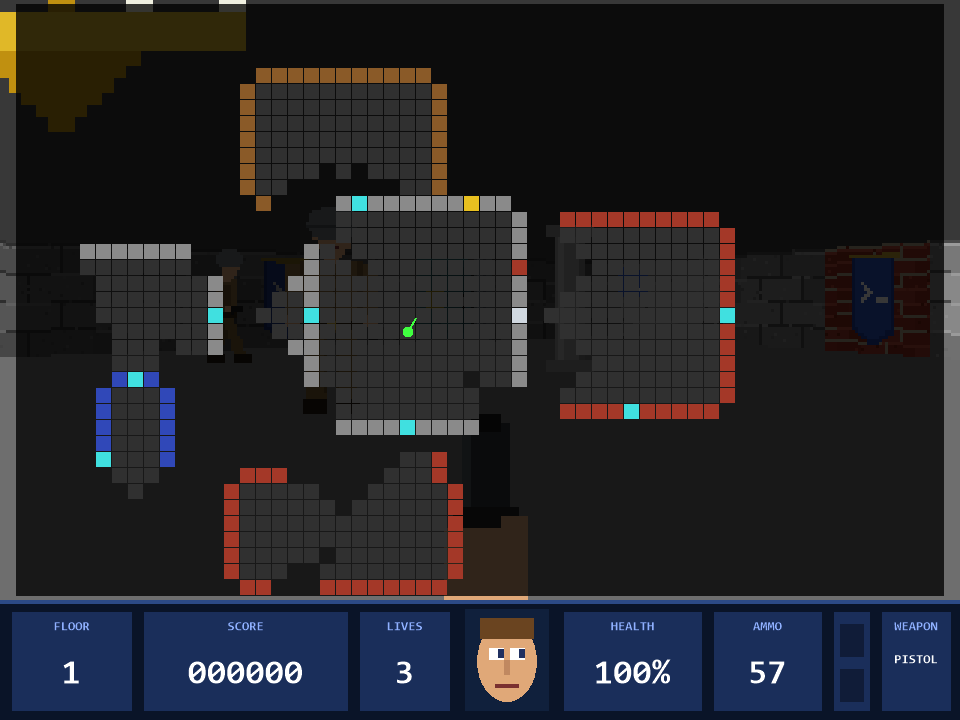
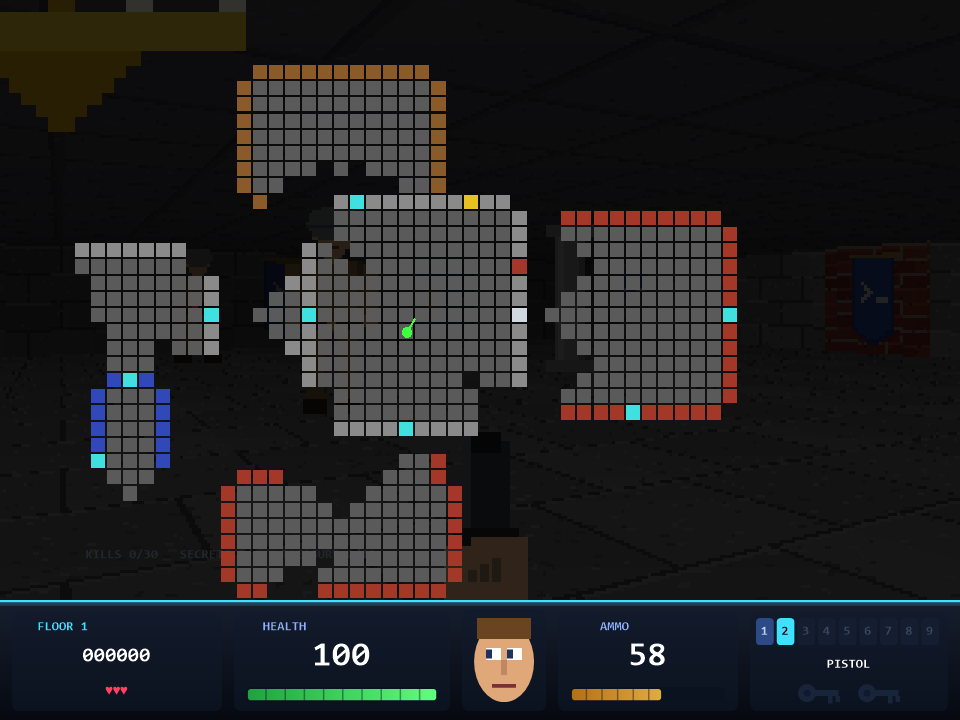
Update the README, screenshots and attract demo for the new features
Documents the new enemies, weapons, stealth, level machinery, network play,
saved games, demos, speedruns, music, game pad, editor and all map codes.
Adds a co-op screenshot; the war machine shot shows the beam again.

diff --git a/README.md b/README.md
@@ -1,8 +1,8 @@
 <h1 align="center">POLF 3D &nbsp;<code>&gt;_</code></h1>
 
 <p align="center"><b>A 90s-style ray casting shooter – written in PowerShell.</b><br>
-<i>Five floors, eight kinds of enemies, six weapons, procedurally generated graphics and sound –<br>
-and roughly 50 lines of C#.</i></p>
+<i>Five floors and a secret one, eleven kinds of enemies, nine weapons, co-op and duels over the network,<br>
+procedurally generated graphics, sound and music – and about 150 lines of C#.</i></p>
 
 <p align="center"><img src="media/warmachine.png" alt="Pipeline Cannon versus the war machine" width="720"></p>
 
@@ -13,7 +13,8 @@ cd polf3d
 ```
 
 Requirements: **Windows** and **PowerShell 7.2+**. Nothing else – no modules, no asset files, no installation.
-On first start the ~50 lines of C# ([src/Scaler.cs](src/Scaler.cs)) are compiled once into `bin/`.
+On first start the two small C# files ([src/Scaler.cs](src/Scaler.cs), [src/Gamepad.cs](src/Gamepad.cs)) are compiled
+once into `bin/`, and each piece of music is composed and cached there the first time it is needed.
 
 ---
 
@@ -24,6 +25,11 @@ On first start the ~50 lines of C# ([src/Scaler.cs](src/Scaler.cs)) are compiled
 - [Controls](#controls)
 - [The campaign](#the-campaign)
 - [Enemies, weapons, items](#enemies-weapons-items)
+- [Stealth](#stealth)
+- [Level machinery](#level-machinery)
+- [Two players: co-op and duel](#two-players-co-op-and-duel)
+- [Saved games, demos, speedruns](#saved-games-demos-speedruns)
+- [Music](#music)
 - [Cheats](#cheats)
 - [Command line](#command-line)
 - [How it works](#how-it-works)
@@ -34,14 +40,16 @@ On first start the ~50 lines of C# ([src/Scaler.cs](src/Scaler.cs)) are compiled
 
 ## What is this?
 
-POLF 3D is a complete first-person shooter with a textured ray caster, sliding doors, keys, secret push-walls,
-enemy AI, bosses, saved games and a high score list – and almost all of it is **plain PowerShell**:
-game logic, AI, ray casting, map format, HUD, menus.
+POLF 3D is a complete first-person shooter with a textured ray caster (walls, floors, ceilings, windows, distance fog),
+sliding doors, keys, levers, traps, teleporters, secret push-walls, enemy AI, bosses, saved games, demos, a level
+editor and a two-player network mode – and almost all of it is **plain PowerShell**: game logic, AI, ray casting,
+map format, HUD, menus, music, network protocol.
 
-* **No asset files.** All wall textures, about 250 sprite images and 40 sound effects are generated procedurally at
-  start-up in a little over two seconds (GDI+ primitives and a tiny square/saw/noise synthesiser).
-* **As little C# as possible:** exactly two pixel loops (scale one wall strip, draw one sprite).
-  PowerShell cannot push 64,000 pixels per frame – but it handles the 320 rays per frame with ease.
+* **No asset files.** All wall and floor textures, about 300 sprite images, 40 sound effects and the whole soundtrack
+  are generated procedurally (GDI+ primitives, a tiny square/saw/noise synthesiser and a chiptune composer).
+* **As little C# as possible:** the innermost pixel loops (scale one wall strip, draw one sprite, fill one floor row)
+  and one P/Invoke declaration for the game pad. PowerShell cannot push 64,000 pixels per frame – but it handles the
+  320 rays per frame with ease.
 * **50–60 fps** in a 960×720 window on an ordinary office laptop.
 
 ## Screenshots
@@ -50,12 +58,14 @@ game logic, AI, ray casting, map format, HUD, menus.
 |---|---|
 | ![Title screen](media/title.png) | ![The hub hall on floor 1](media/hub.png) |
 | Title screen with difficulty levels and high scores | Floor 1: the hub hall – patrols, banners with the `>_` coat of arms |
-| ![Fire fight](media/firefight.png) | ![Kennels](media/kennels.png) |
-| A guard takes aim (seen through the door frame) | The kennels |
+| ![Fire fight](media/firefight.png) | ![Co-op](media/coop.png) |
+| A guard takes aim (seen through the door frame) | Co-op over the network: your partner runs ahead |
 | ![Catacombs](media/catacombs.png) | ![Lab Zero](media/lab.png) |
 | Floor 3: mutants between the pillars of the catacombs | Floor 4: an elite patrol in the ring corridor of Lab Zero |
 | ![Citadel](media/citadel.png) | ![Automap](media/automap.png) |
 | Floor 5: the great hall of the citadel | Automap (hold `M`) – shows only what you have already seen |
+| ![Kennels](media/kennels.png) | |
+| The kennels | |
 
 <p align="center"><img src="media/cast.png" alt="The cast" width="900"></p>
 
@@ -66,33 +76,42 @@ game logic, AI, ray casting, map format, HUD, menus.
 | `W` / `S`, arrow up/down | forward / back |
 | arrow left/right | turn |
 | `A` / `D` | strafe |
-| `Shift` | run (enemies find you harder to hit) |
+| `Shift` | run (enemies find you harder to hit – but hear you from further away) |
+| `C` | sneak (slow and silent) |
 | `Ctrl`, left mouse button | fire |
-| `Space`, `E`, right mouse button | door, lift switch, secret wall |
-| `1`–`4` | knife, pistol, machine gun, chain gun |
-| `5` / `6` | Pipeline Cannon / Force Blaster (find them first!) |
-| `M` (hold) | automap |
-| `F2` | mouse look on/off |
-| `F3` | fps display |
-| `F5` / `F9` | quick save / quick load (`saves/quicksave.json`); on the title screen `L` loads |
-| `P`, `Esc` | pause |
+| `Space`, `E`, right mouse button | door, lever, lift switch, secret wall |
+| `1`–`9` | weapons (see below) |
+| `M` (hold) / `N` | automap / radar minimap on and off |
+| `F2` / `F3` / `F4` | mouse look / fps display / music on and off |
+| `F5` / `F9` | quick save / quick load |
+| `F12` | record a demo (press again to stop and save) |
+| `P`, `Esc` | pause: `1`–`3` save to a slot, `L` load, `Q` main menu |
+
+**Game pad (XInput):** left stick move and strafe, right stick turn, `RT` fire, `LT` run, `A` use, `B` sneak,
+`LB`/`RB` previous/next weapon, `Y` minimap, `Back` automap, `Start` pause. D-pad and `A` work in the menus.
+
+The status bar shows floor, score, lives, health, ammunition for the weapon in hand, the weapons you own and your
+keys. Above it: floor progress (kills, secrets, treasures), a three-step **noise meter**, `?` and `!` above enemies
+who have noticed something or are coming for you, and the radar with alerted enemies as red dots.
 
 ## The campaign
 
-Five floors that keep getting harder. The lift takes you to the next one; you keep your weapons, ammunition and
-health, but not your keys. If you die you restart the floor with a pistol and 8 rounds. Every floor ends with a tally
-(kills, secrets, treasures, a bonus for beating the par time).
+Five floors that keep getting harder, plus a secret one. The lift takes you to the next floor; you keep your weapons,
+ammunition and health, but not your keys. If you die you restart the floor with a pistol and 8 rounds. Every floor
+ends with a tally (kills, secrets, treasures, a bonus for beating the par time).
 
-| # | Floor | Enemies / total HP | Character |
+| # | Floor | Enemies / total HP* | Character |
 |---|---|---|---|
-| 1 | Shellstein Dungeon | 30 / ~2300 | A gentle start: guards, dogs, the first elites and mutants, generous secret rooms, a commander at the end |
-| 2 | The Barracks | 33 / ~2450 | A long corridor with counter-rotating patrols, dormitories (some of them really are asleep), a mess hall full of guards |
-| 3 | The Catacombs | 33 / ~2700 | Caves without doors – noise carries far. Dogs in the dark, mutants lying in ambush behind every pillar |
-| 4 | Lab Zero | 31 / ~4600 | A ring corridor with elite patrols around the reactor hall, a commander in the server room, **the first war machine** |
-| 5 | The Citadel | 30 / ~5150 | The finale: a great hall with three patrols, two commanders, and a throne hall with a war machine and its escort |
+| 1 | Shellstein Dungeon | 33 / ~2800 | A gentle start: guards, dogs, the first elites and mutants, generous secret rooms, a commander at the end |
+| 2 | The Barracks | 37 / ~3100 | A long corridor with counter-rotating patrols, dormitories (some of them really are asleep), shield bearers in the mess hall – and a lift that goes somewhere it should not |
+| – | *The Treasury* | 12 / ~500 | The secret floor: gold everywhere, kamikaze bots between the chests |
+| 3 | The Catacombs | 43 / ~3400 | Caves without doors – noise carries far. Dogs in the fog, mutants lying in ambush behind every pillar |
+| 4 | Lab Zero | 37 / ~5800 | A ring corridor with elite patrols around the reactor hall, windows to shoot (and be shot) through, snipers, **the first war machine** |
+| 5 | The Citadel | 40 / ~6500 | The finale: a great hall with three patrols, two commanders, and a throne hall with a war machine and its escort |
 
-Four difficulty levels – *Intern (-WhatIf)*, *Sysadmin*, *Senior Engineer* and *root (-Force -Confirm:$false)* –
-scale the damage you take (×0.25 to ×1.3) and the bosses' hit points.
+\* on *Senior Engineer*. Four difficulty levels – *Intern (-WhatIf)*, *Sysadmin*, *Senior Engineer* and
+*root (-Force -Confirm:$false)* – scale the damage you take (×0.25 to ×1.3) and the bosses' hit points, and the
+harder ones put **reinforcements** on every floor.
 
 ## Enemies, weapons, items
 
@@ -105,13 +124,15 @@ scale the damage you take (×0.25 to ×1.3) and the bosses' hit points.
 | Officer | 50 | reacts almost instantly and aims very briefly |
 | Elite | 100 | four-round bursts, better aim, drops a machine gun |
 | Mutant | 45–65 | never shouts an alarm, two shots per attack – loves an ambush |
+| Sniper | 30 | slow and fragile, takes his time – and then hits hard at **any** distance. Only running helps |
+| Shield bearer | 80 | bullets and blades glance off the shield: get behind him, wait until he lowers it to shoot – or use something that does not care |
+| Kamikaze bot | 20 | rolls at you at speed and blows itself up; shooting it has the same effect (mind who stands next to it) |
 | Commander | 850–1200 | boss with twin machine guns, drops the gold key |
 | War machine | 1100–1800 | super boss: gun bursts and salvos of three rockets (real projectiles with splash damage – pillars give cover) |
 | Pilot | 250–500 | phase 2: climbs out of the war machine's wreck – few hit points, but very fast |
 
 The AI works on the tile grid: enemies patrol along waypoints, open doors, chase you in a zig-zag and have a reaction
-time. **Stealth pays off:** anyone who has not noticed you yet takes double damage, and gunfire only alerts rooms that
-are connected to yours through a door that is open at that moment. The knife is silent.
+time. Hits throw blood or sparks, a heavy hit shakes the camera, explosions shake it more.
 
 **Weapons**
 
@@ -123,52 +144,121 @@ are connected to yours through a door that is open at that moment. The knife is 
 | 4 | Chain gun | automatic fire at twice the rate |
 | 5 | **Pipeline Cannon** | "`\|` passes everything along": the beam pierces **every** enemy in the line of fire (4 rounds per beam) |
 | 6 | **Force Blaster** | `Remove-Item -Recurse -Force` for your whole field of view – fed by rare Force charges |
+| 7 | **Rocket launcher** | a real projectile with splash damage: brings down cracked walls, sets off barrels, ignores shields – and hurts you too |
+| 8 | **Flamethrower** | short range, wide cone, burns everybody in it; flames lick around shields |
+| 9 | **Throwing knives** | silent like the knife, but at a distance – deadly against anyone who has not noticed you |
 
-All guns share one kind of ammunition (99 rounds at most). When it runs out you automatically draw the knife.
+The guns share one kind of ammunition (99 rounds at most); rockets, knives and Force charges are counted separately.
+When a weapon runs dry you automatically draw the best one that still works.
 
-**Items:** dog food (+4), food (+10), first aid kit (+25), clips, gold and silver keys, treasures
+**Items:** dog food (+4), food (+10), first aid kit (+25), clips, rockets, gold and silver keys, treasures
 (coins 100, goblet 500, chest 1000, crown 5000 points), extra lives, Force charges and the **SUDO** power-up
 (20 seconds of double damage dealt and half damage taken). Every 40,000 points earn an extra life.
+**Explosive barrels** (the red ones) go up when shot and set each other off.
+
+## Stealth
+
+Anyone who has not noticed you yet takes **double damage**. What they notice:
+
+* **Gunfire** alerts every room that is connected to yours through a door that is open at that moment (or a window).
+* **Footsteps and doors** are heard within a few tiles – further when you run, not at all when you sneak (`C`).
+* **Sight:** enemies only see what is in front of them. Sneaking, you can get right behind them.
+* The knife and throwing knives are silent. Shield bearers are best dealt with exactly this way.
+
+## Level machinery
+
+* **Doors** slide into the wall and close again by themselves; gold and silver locks need the matching key.
+* **Lever doors** cannot be opened by hand: somewhere there is a wall lever with the same number.
+* **Secret push-walls** slide back two tiles when you press against them. **Cracked walls** only give way to explosions.
+* **Windows** can be seen, heard and shot through – by both sides.
+* **Spikes and crushers** cycle on a timer; neighbours are out of phase, so a row of them is a timing puzzle.
+  Crushers do not care who is underneath.
+* **Teleporter pads** come in numbered pairs.
+* A second, hidden **lift switch** on floor 2 leads to the secret floor.
+
+## Two players: co-op and duel
+
+```powershell
+./Start-Polf3D.ps1 -HostGame Coop          # or: -HostGame Duel
+./Start-Polf3D.ps1 -JoinGame 192.168.1.20  # on the other computer: name or address of the host
+```
+
+The title screen shows the state of the connection; once the guest has joined, the host picks the difficulty and
+presses Enter. The port is 27500/TCP (`-Port` changes it) – the host's firewall has to let it in.
+
+* **Co-op:** the whole campaign together. Enemies go for whoever is nearer, keys are shared, either player can call
+  the lift, and the partner shows up as a blue dot on the radar. No lives: whoever dies is back at the start of the
+  floor a moment later with the basic kit, and the floor goes on. Friendly bullets do nothing – friendly rockets do.
+* **Duel:** the same floors without monsters. Everybody starts with a machine gun, weapons and items come back
+  after 25 seconds, the dead respawn far away from their opponent, frags are counted; the lift switch ends the round.
+
+Both computers need the same maps (the game warns if they differ). Saving, loading and demos are switched off in a
+network game, and the pause menu does not stop the world.
+
+## Saved games, demos, speedruns
+
+* **Saved games:** quick save (`F5`/`F9`), three slots from the pause menu, and an **autosave** whenever the lift
+  arrives on a new floor. `L` on the title screen lists them all.
+* **Demos:** `F12` records your input from a fresh start of the floor; played back, the same numbers go into the same
+  simulation. Leave the title screen alone for a while and the attract demo starts – recorded by a little bot.
+* **Speedruns:** `-Speedrun` (or `T` on the title screen) shows the clock – floor time, par and total run – and keeps
+  the best times per floor and for complete runs in `saves/speedrun.json`.
+
+## Music
+
+Every track is composed in code and rendered once: a solemn **anthem** that plays only on the title screen, then
+one style per floor – **rock** for the dungeon, a **march** for the barracks, a **creepy drone with far-away bells**
+for the catacombs, **techno** for the lab, a **galloping finale** in harmonic minor for the citadel and a carefree
+ditty for the treasury. Further floors you add cycle through the styles, transposed. `F4` or `-NoMusic` turns it off.
 
 ## Cheats
 
 | Key | Code word (type it while playing) | Parameter | Effect |
 |---|---|---|---|
-| `F6` | `GIVEALL` | `-AllWeapons` | all weapons, 99 rounds, Force charges, both keys, full health |
-| `F7` | `NOLIMIT` | `-InfiniteAmmo` | shooting costs nothing (Pipeline Cannon and Force Blaster included) |
+| `F6` | `GIVEALL` | `-AllWeapons` | all weapons, full ammunition, Force charges, both keys, full health |
+| `F7` | `NOLIMIT` | `-InfiniteAmmo` | shooting costs nothing |
 | `F8` | `ROOT` | `-GodMode` | no damage |
 | `F11` | `ONEHIT` | `-OneHitKill` | every hit kills – **the enemies and you** (unless god mode is on) |
 
 `F7`, `F8` and `F11` are toggles; active cheats are shown at the bottom left of the view. Cheaters get a "(cheat)" tag
-in the high score list.
+in the high score list and no speedrun records. No cheating in a duel.
 
 ## Command line
 
 ```powershell
 ./Start-Polf3D.ps1 -Scale 4        # window size: 2..5 times 320x240 (default 3)
 ./Start-Polf3D.ps1 -Columns 160    # half the number of rays, for slow machines
+./Start-Polf3D.ps1 -FlatFloors     # plain floors and ceilings (the 1992 look, a little faster)
 ./Start-Polf3D.ps1 -Difficulty 4   # preselect the difficulty (1..4)
 ./Start-Polf3D.ps1 -Level 4        # start the campaign on floor 4
 ./Start-Polf3D.ps1 -Map ./maps/mine.map   # play just this one map
-./Start-Polf3D.ps1 -NoSound        # skip sound synthesis (faster start)
+./Start-Polf3D.ps1 -Speedrun       # show the speedrun clock
+./Start-Polf3D.ps1 -NoSound -NoMusic -NoGamepad
+./Start-Polf3D.ps1 -HostGame Coop  # network game, see above (-JoinGame <host>, -Port <n>)
 ```
+
+`Get-Help ./Start-Polf3D.ps1 -Full` lists everything.
 
 ## How it works
 
 | File | Purpose |
 |---|---|
-| [Start-Polf3D.ps1](Start-Polf3D.ps1) | parameters, loading the modules, compiling the scaler (DLL cache in `bin/`), start |
+| [Start-Polf3D.ps1](Start-Polf3D.ps1) | parameters, loading the modules, compiling the C# (DLL cache in `bin/`), start |
 | [src/Defs.ps1](src/Defs.ps1) | constants, the classes `Actor`/`Door`/`Static`, tables for enemies, states, weapons, items |
-| [src/Assets.Gfx.ps1](src/Assets.Gfx.ps1) | procedural textures and sprites |
+| [src/Assets.Gfx.ps1](src/Assets.Gfx.ps1) | procedural textures, flats and sprites |
 | [src/Assets.Sfx.ps1](src/Assets.Sfx.ps1) | sound synthesis, playback on one channel with priorities |
+| [src/Music.ps1](src/Music.ps1) | the composer: styles, melodies written as text, wave patterns, SIMD mixing, WAV cache |
 | [src/Map.ps1](src/Map.ps1) | loads the text map, finds rooms ("areas") by flood fill, places things |
-| [src/Doors.ps1](src/Doors.ps1) | doors, the area graph for sound and sight, push-walls |
-| [src/Actors.ps1](src/Actors.ps1) | line of sight, perception, grid movement, think/action routines, rockets, damage |
+| [src/Doors.ps1](src/Doors.ps1) | doors, levers, the area graph for sound and sight, push-walls |
+| [src/Mechanics.ps1](src/Mechanics.ps1) | traps and teleporters |
+| [src/Actors.ps1](src/Actors.ps1) | line of sight, perception, grid movement, think/action routines, projectiles, explosions, damage |
 | [src/Player.ps1](src/Player.ps1) | movement with wall sliding, use, weapons, items, cheats |
-| [src/Render.ps1](src/Render.ps1) | ray caster, sprite projection, HUD, overlays, automap |
-| [src/Game.ps1](src/Game.ps1) | window, input, game modes, main loop, screens |
-| [src/SaveGame.ps1](src/SaveGame.ps1) | quick save/load as JSON, high score list |
-| [src/Scaler.cs](src/Scaler.cs) | **the only C#**: scaling wall strips and sprites pixel by pixel |
+| [src/Render.ps1](src/Render.ps1) | ray caster, floor casting, fog, windows, sprite projection, HUD, overlays, automap, radar |
+| [src/Game.ps1](src/Game.ps1) | window, keyboard/mouse/game pad, game modes, main loop, screens |
+| [src/SaveGame.ps1](src/SaveGame.ps1) | saved games as JSON, speedrun records, high score list |
+| [src/Demo.ps1](src/Demo.ps1) | demo recording and playback, the bot that records the attract demo |
+| [src/Network.ps1](src/Network.ps1) | the two-player mode: connection, protocol, snapshots, the "peer context" |
+| [src/Scaler.cs](src/Scaler.cs), [src/Gamepad.cs](src/Gamepad.cs) | **the only C#**: the pixel loops, and the XInput declaration |
 | [src/SelfTest.ps1](src/SelfTest.ps1) | headless tests and the screenshots for this README |
 
 A few details for the curious:
@@ -177,15 +267,24 @@ A few details for the curious:
   last frame – the game plays at the same speed at 20 fps as at 60.
 * **Ray caster:** one ray per screen column is walked through the tile grid (DDA). The wall height comes from the
   distance *along the view direction* (no fish-eye). Doors are thin leaves in the middle of their tile and slide
-  sideways into the wall, neighbouring walls show a door frame, push-walls are a ray-against-box test. One of the
-  two wall axes uses a darker copy of the texture – lighting for free. The distance is remembered per column so
-  sprites disappear cleanly behind walls.
+  sideways into the wall, neighbouring walls show a door frame, push-walls are a ray-against-box test. For a window
+  the ray simply goes on, and the window strip is blended in later. One of the two wall axes uses a darker copy of
+  the texture – lighting for free; fog fades everything towards the floor's haze colour. The distance is remembered
+  per column so sprites disappear cleanly behind walls.
 * **Enemies** are a data-driven state machine `{Sprite, Rot, Tics, Think, Action, Next}`: *Think* runs every frame,
   *Action* once when the state runs out. The chains (stand, patrol, chase, shoot, pain, die) are generated from a
   short definition per enemy type.
 * **Sound propagation:** the map falls into areas (rooms between doors) automatically. Only areas connected to yours
   through currently open doors hear gunfire – and only there do enemies think at all. That is gameplay and
   optimisation in one.
+* **Determinism:** the game's random numbers are seeded per floor, cosmetic randomness has its own generator. That is
+  what makes demos possible – a demo is just the seed plus the input of every frame.
+* **Network:** the host owns the world and sends the guest what has changed, twenty times a second, as lines of text
+  over TCP; the guest simulates only its own player and *asks* the host for everything else ("I hit actor 17 for 23",
+  "use the tile in front of me"). For the enemies to fight two players, the host swaps the remote player in as
+  "the player" for the duration of one actor's update – all the existing AI code then simply means the other one.
+* **Music:** a note is one short wave pattern copied over and over with `Buffer.BlockCopy`; the six channels are added
+  up with `System.Numerics.Vector`, sixteen samples at a time. Half a minute of music renders in under a second.
 * **Presentation:** `int[]` frame buffer → bitmap → `BufferedGraphics`. Its GDI blit is about six times faster than
   drawing a GDI+ bitmap straight to the window – the difference between 30 and 55 fps.
 * **Approved verbs:** every function, including every internal helper, uses a verb from `Get-Verb`;
@@ -193,39 +292,53 @@ A few details for the curious:
 
 ## Building your own levels
 
+```powershell
+./tools/Edit-Level.ps1 ./maps/level1.map   # the point-and-click editor: paint, validate, play
+```
+
 Every `maps/level<N>.map` is a text file; the campaign simply consists of all of them in numerical order – a
-`level6.map` automatically becomes floor 6. After a few header lines (`@name`, `@par`, `@ceiling`, `@floor`) the grid
-follows `@map`, **every cell two characters wide**:
+`level6.map` automatically becomes floor 6, and `bonus<N>.map` is where the secret lift switch of floor N leads.
+After the header the grid follows `@map`, **every cell two characters wide**.
+
+Header: `@name`, `@par <seconds>`, `@ceiling <RRGGBB>`, `@floor <RRGGBB>`, optionally `@floortex` / `@ceiltex`
+(`flat_stone flat_wood flat_moss flat_tech flat_carpet` / `ceil_plain ceil_rock ceil_tech`), `@fog <RRGGBB> <tiles>`
+and any number of `@spawn <min. difficulty> <x> <y> <enemy code>` reinforcements.
 
 | Code | Meaning |
 |---|---|
 | `SS Sb Sp` `BB Bc` `WW Wp Ws` `RR Rb` `MM` | walls: stone, blue stone, wood, brick, steel (+ decorated variants) |
 | `GG Gv` `TT Tl` | mossy rock (+ vines), tech panels (+ console) |
-| `MX` | lift switch (the exit) |
+| `MX` / `MY` | lift switch (the exit) / secret lift switch (to the bonus floor) |
 | `?S ?s ?B ?b ?W ?w ?R ?r ?M ?G ?g ?T ?t` | secret push-wall (upper case plain, lower case decorated) |
+| `!S !B !W !R !M !G !T` | cracked wall – only an explosion brings it down |
+| `=S =B =W =R =M =G =T` | window |
 | `DD DG DS DL` | door: normal / gold lock / silver lock / lift door – the orientation is detected from the neighbouring walls |
+| `D1`–`D9`, `X1`–`X9` | lever door and the wall lever that opens it |
 | `..` | floor |
 | `P^ P> Pv P<` | player start and view direction |
-| `g d e o m b u` + direction | guard, dog, elite, officer, mutant, commander, war machine |
+| `g d e o m s h k b u` + direction | guard, dog, elite, officer, mutant, sniper, shield bearer, kamikaze bot, commander, war machine |
 | direction `^ > v <` / `n e s w` / `N E S W` | standing / standing and "deaf" (ambush, reacts to sight only) / patrolling |
 | `:^ :> :v :<` | waypoint: patrols turn here |
-| `+d +f +h` `+a` `+m +c +p +r +z` `+g +s` `+1 +2 +3 +4` `+u +q` | dog food, food, first aid · clip · machine gun, chain gun, Pipeline Cannon, Force Blaster, Force charge · keys · treasures · extra life, SUDO |
-| `*l *h *L *t *b *p *a *c *f *x *v *s *u *k *B *m *g` | decoration: ceiling lamp, chandelier, floor lamp, table, barrel, plant, suit of armour, column, flag, crates, vat, bones, puddle, dead guard, bed, console, stalagmite |
+| `~s ~c` | trap: spikes, crusher |
+| `@1`–`@9` | teleporter pad (two pads with the same number form a pair) |
+| `+d +f +h` `+a +o +z` `+m +c +p +r +l +t +j` `+g +s` `+1 +2 +3 +4` `+u +q` | dog food, food, first aid · clip, rockets, Force charge · machine gun, chain gun, Pipeline Cannon, Force Blaster, rocket launcher, flamethrower, throwing knives · keys · treasures · extra life, SUDO |
+| `*l *h *L *t *b *p *a *c *f *x *v *s *u *k *B *m *g` `*e` | decoration: ceiling lamp, chandelier, floor lamp, table, barrel, plant, suit of armour, column, flag, crates, vat, bones, puddle, dead guard, bed, console, stalagmite · **explosive barrel** |
 
 The bundled maps are generated by [tools/New-Levels.ps1](tools/New-Levels.ps1) from room lists – rooms are rectangles
 carved out of solid rock; where they touch they merge into corridors and caves. The game only ever reads the `.map`
-files, though, so you can just as well edit them by hand. Validate and play:
+files, though, so you can just as well edit them by hand or in the editor. Validate and play:
 
 ```powershell
-./tools/Test-Level.ps1 -Map ./maps/mine.map    # border closed? everything reachable? keys present? patrol routes clear?
+./tools/Test-Level.ps1 -Map ./maps/mine.map    # border closed? everything reachable? keys, levers, teleporter pairs? patrol routes clear?
 ./Start-Polf3D.ps1 -Map ./maps/mine.map
 ```
 
 ## Tests
 
 ```powershell
-./Start-Polf3D.ps1 -SelfTest   # headless: renders PNGs into ./selftest; combat, cheat, dog, boss and savegame tests
-                               # plus a soak test of every floor that also fights every boss
+./Start-Polf3D.ps1 -SelfTest   # headless: renders PNGs into ./selftest and tests combat, stealth, weapons, machinery,
+                               # bosses, saved games, demo determinism, the network protocol (both sides, over
+                               # loopback) and the music - plus a soak test of every floor that fights every boss
 ./tools/Test-Level.ps1         # validates all maps and prints an overview of each
 ./tools/Test-Verbs.ps1         # every function uses an approved verb
 ```
@@ -236,9 +349,9 @@ POLF 3D is **neither a clone nor a port**. The source code of the 1992 grandfath
 id Software, was first analysed and described *in our own words* – how the code is structured and how levels, enemies,
 weapons, items and doors work. Only from that description was the game written anew. What was adopted are concepts and
 game mechanics; **nothing** of the original is contained in this repository: own code, own levels, own names, own
-procedurally generated graphics and sounds – and the `>_` prompt as a coat of arms.
+procedurally generated graphics, sounds and music – and the `>_` prompt as a coat of arms.
 
 ## License
 
 Copyright © 2026 oNdsen. Released under the [MIT License](LICENSE) – code, maps and the procedurally generated
-graphics and sounds. Use it, change it and pass it on, as long as the copyright notice stays in place.
+graphics, sounds and music. Use it, change it and pass it on, as long as the copyright notice stays in place.
